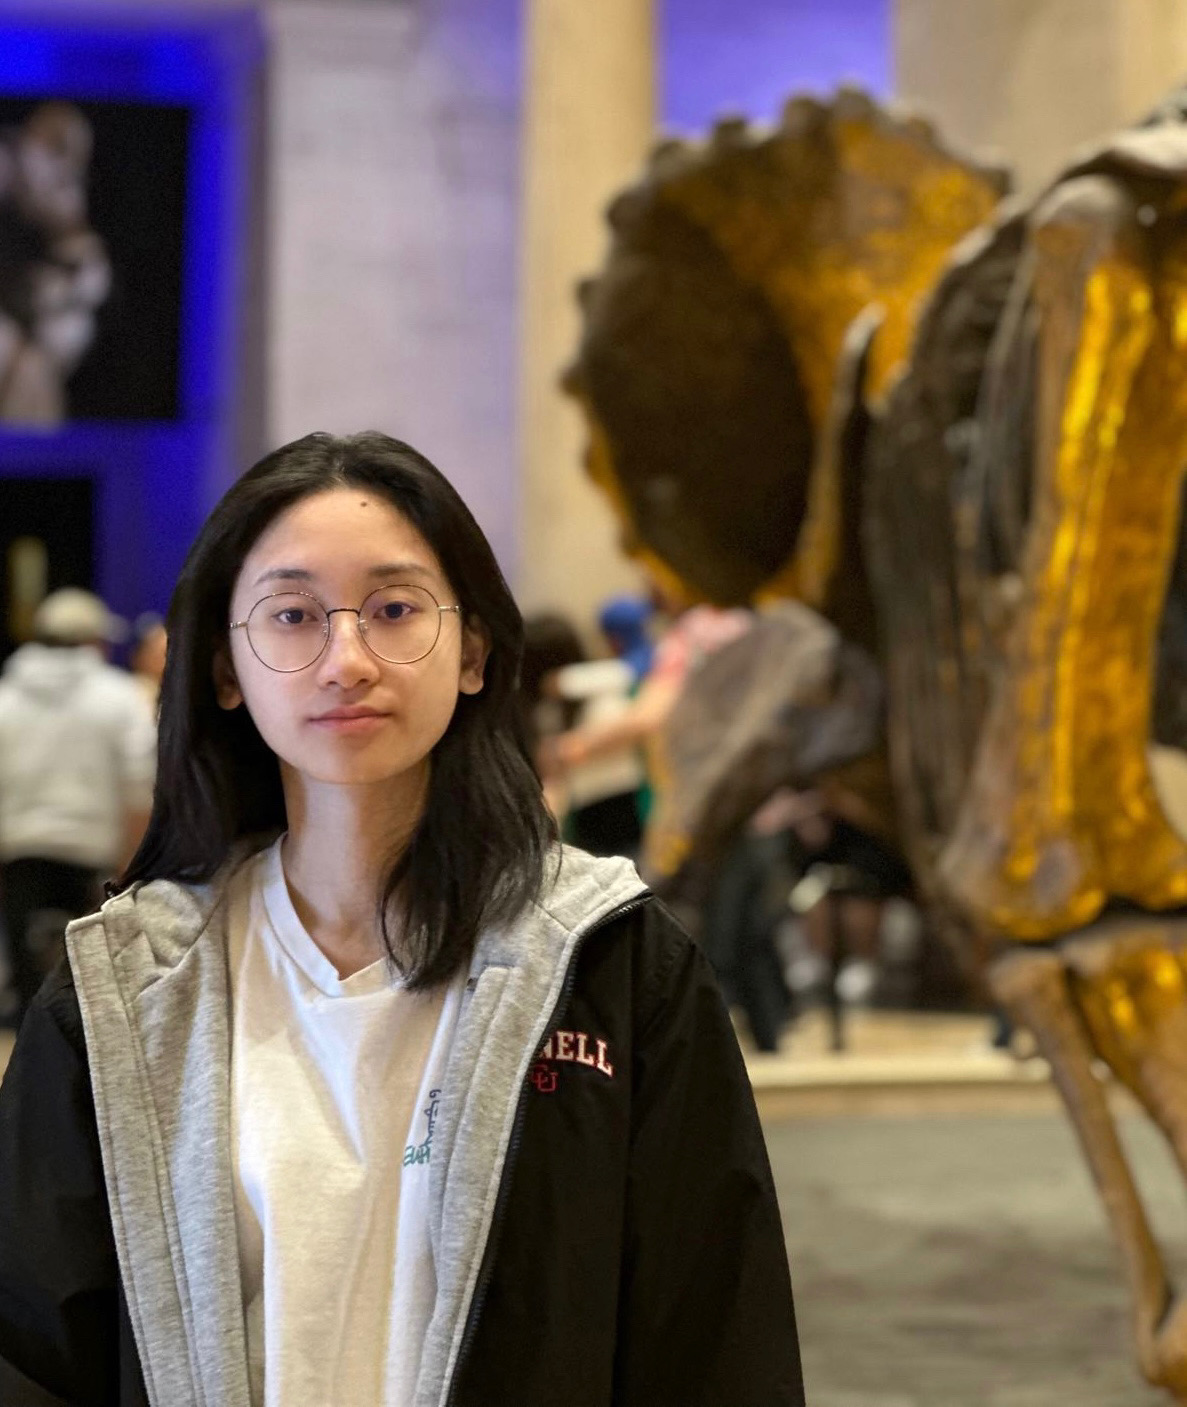
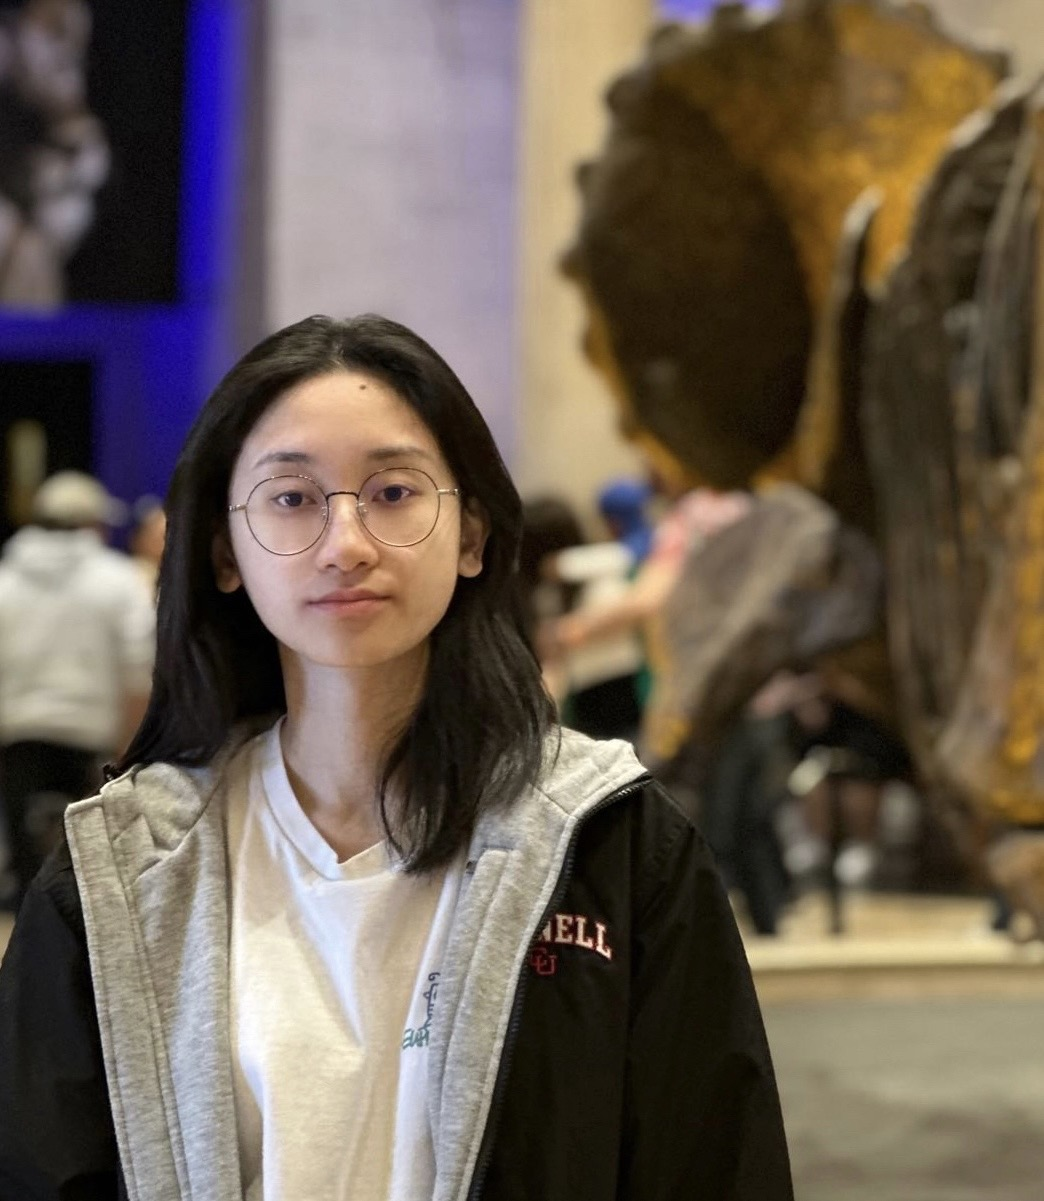
added profile pic 2

diff --git a/index.html b/index.html
@@ -41,12 +41,12 @@
 
                   <!-- Right Column -->
                   <td style="padding:2.5%; width:37%; max-width:37%; text-align:center; vertical-align:top;">
-                    <a href="images/profile_pic.jpg">
-                      <img src="images/profile_pic.jpg" alt="profile photo"
-                          style="width:80%; max-width:100%; object-fit:cover;">
+                    <a href="images/profile_pic.jpg" class="hover-img">
+                      <img src="images/profile_pic.jpg" alt="profile photo" class="img-front">
+                      <img src="images/profile_pic_2.jpg" alt="alternate profile photo" class="img-back">
                     </a>
                     <p>Email: <a href="mailto:ahao@andrew.cmu.edu">ahao@andrew.cmu.edu</a></p>
-                  </td> 
+                  </td>
                 </tr>
               </tbody>
             </table>

diff --git a/stylesheet.css b/stylesheet.css
@@ -140,3 +140,39 @@ span.highlight {
     display: inline-block;
     border-radius: 10px;
 }
+
+.hover-img {
+  position: relative;
+  display: inline-block;
+  width: 80%;          /* matches your inline style */
+  max-width: 100%;
+}
+
+.hover-img img {
+  width: 100%;
+  object-fit: cover;
+  border-radius: 50%;   /* keep circular profile look */
+  display: block;
+  transition: opacity 0.3s ease;
+  position: absolute;
+  top: 0;
+  left: 0;
+}
+
+.hover-img .img-front {
+  opacity: 1;
+  z-index: 1;
+}
+
+.hover-img .img-back {
+  opacity: 0;
+  z-index: 2;
+}
+
+.hover-img:hover .img-front {
+  opacity: 0;
+}
+
+.hover-img:hover .img-back {
+  opacity: 1;
+}
